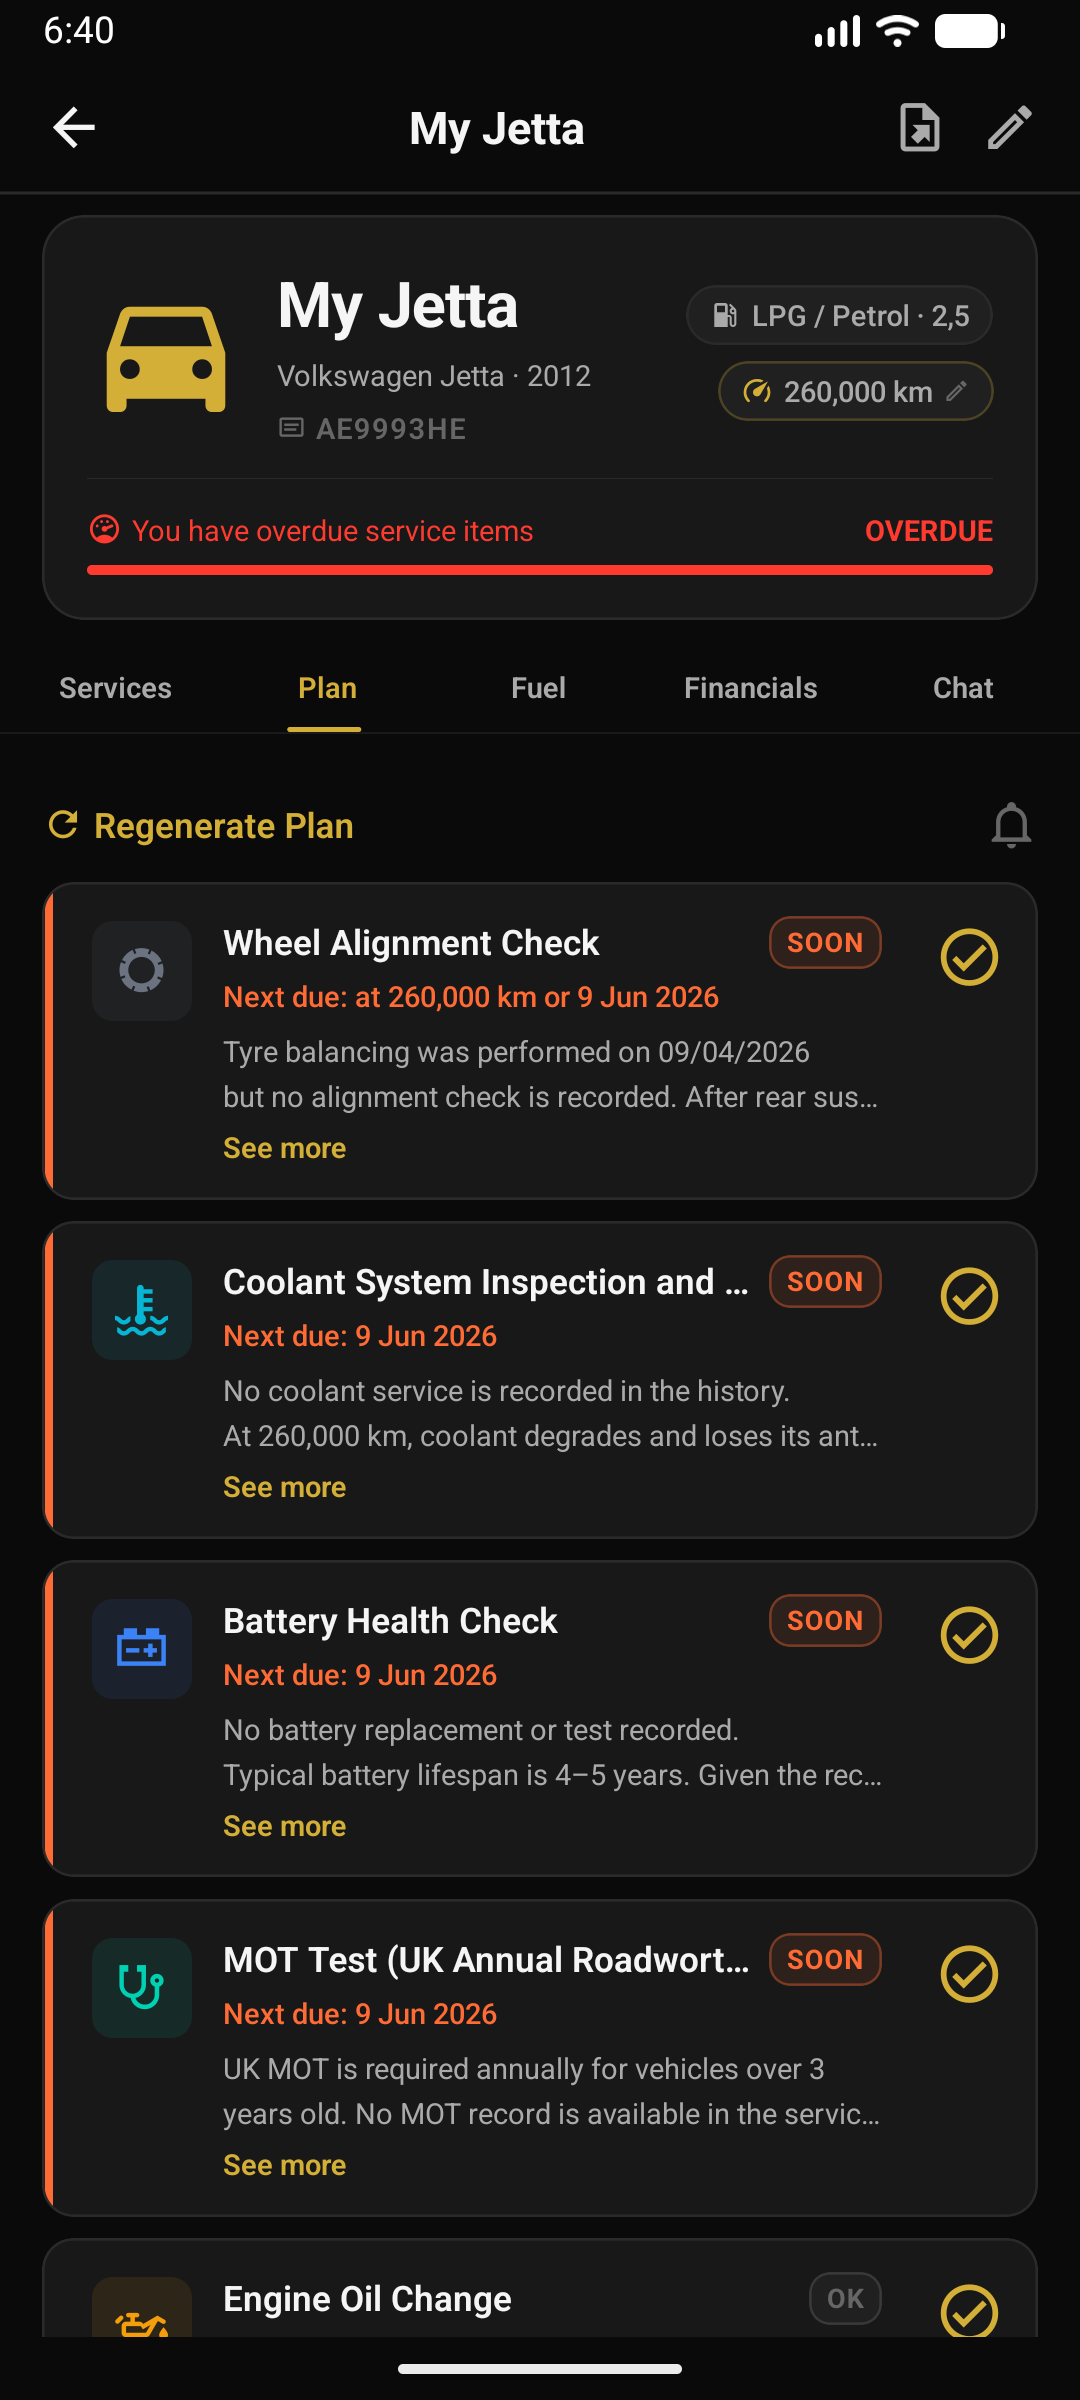
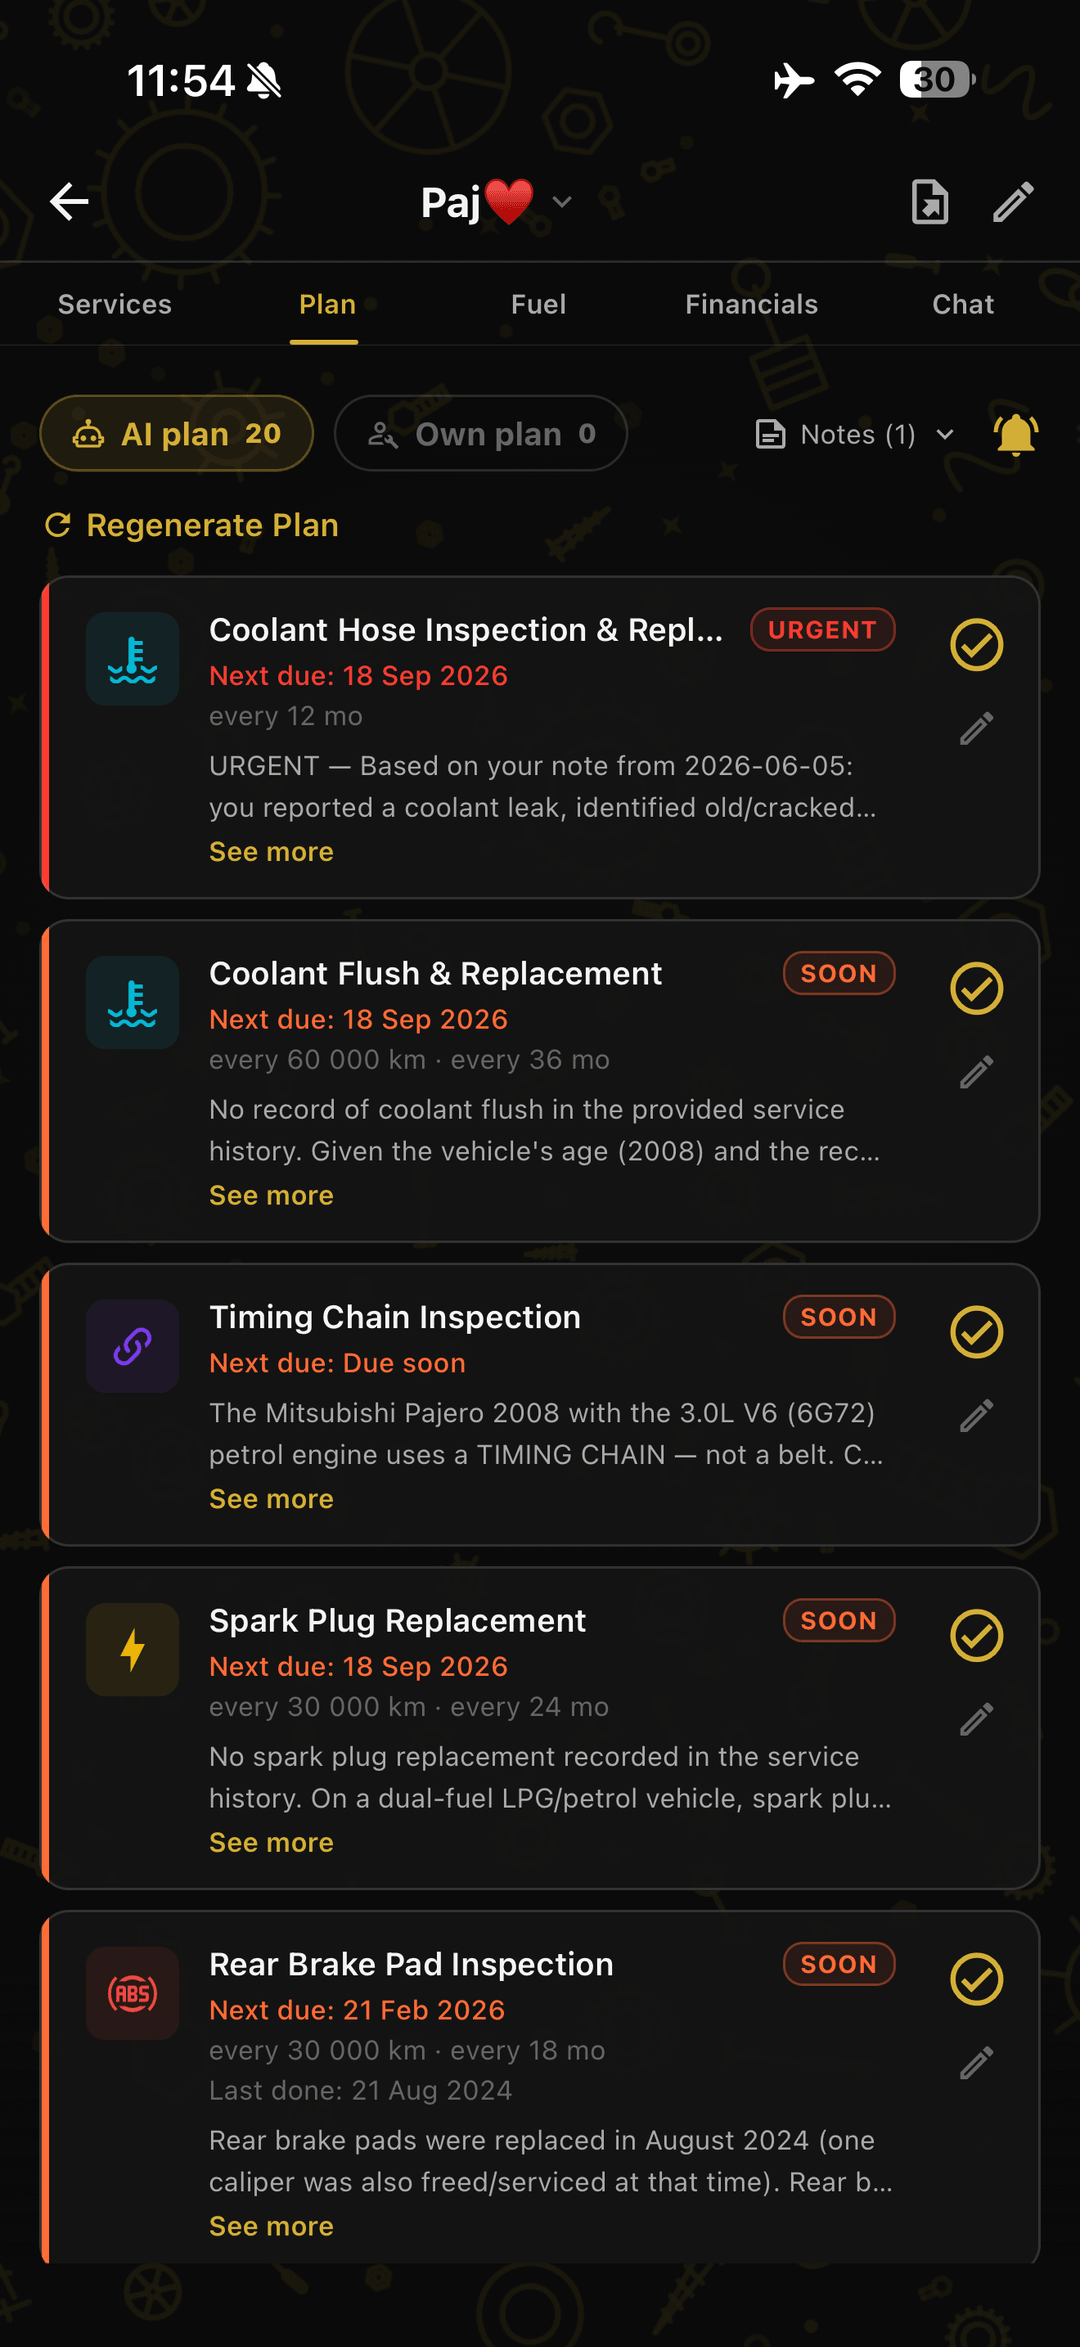
Refresh landing screenshots to the gold/polaroid redesign (garage, AI plan, service book)

diff --git a/index.html b/index.html
@@ -195,7 +195,7 @@
       </div>
 
       <div class="hero-shot">
-        <img src="assets/garage.png" alt="Maintra app garage screen showing three tracked vehicles, mileage, and service status" loading="eager" />
+        <img src="assets/garage.png" alt="Maintra garage screen — polaroid-style car card with odometer, health score, next-service countdown, and monthly spending" loading="eager" />
       </div>
     </section>
 
@@ -206,7 +206,7 @@
 
       <div class="shot-grid">
         <figure class="shot">
-          <img src="assets/garage.png" alt="Garage screen — list of tracked vehicles with mileage, costs, and next-service progress bars" loading="lazy" />
+          <img src="assets/garage.png" alt="Garage screen — polaroid car deck with health, next-service and wishlist tiles, monthly spend, and upcoming work" loading="lazy" />
           <figcaption>Your garage at a glance — every vehicle, last service, next due.</figcaption>
         </figure>
         <figure class="shot">
